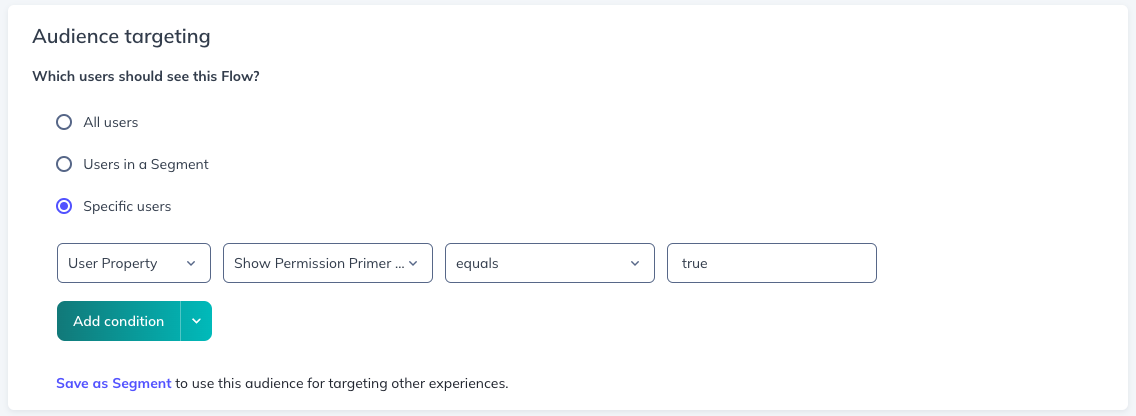
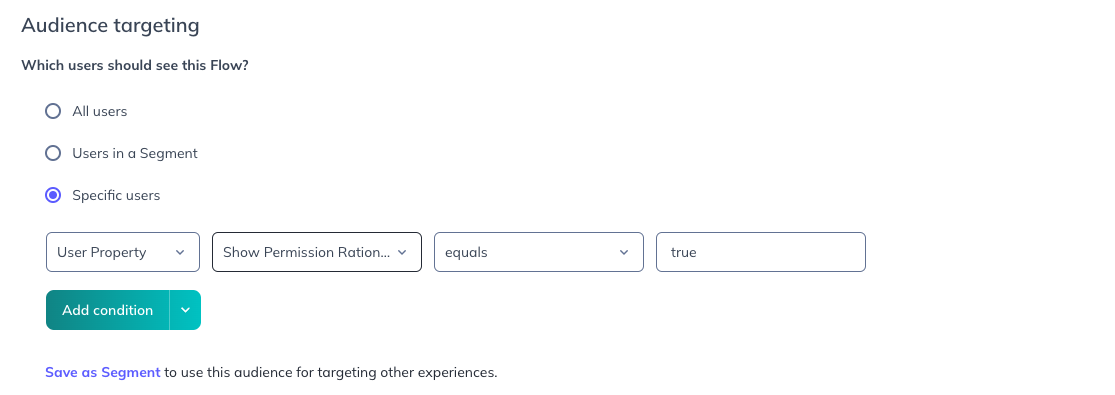
📝 Edits for permission primer doc

diff --git a/docs/permission_primer/PermissionPrimer.md b/docs/permission_primer/PermissionPrimer.md
@@ -1,123 +1,129 @@
-# Android permission primers
+# Android Permission Primers
 
-Sometimes its necessary to ask users for specific permissions, given that all apps are limited to access to user private data, at any given
-moment your application might need special access to camera, storage data, etc…
+Android applications must ask users for permission to use certain resources on the device, such as camera, storage or location. Sometimes, it is recommended that the application show an educational UI to the user that describes why a feature needs a particular permission. This guide will explain how to use Appcues to help with the permission rationale UI, also known as a permission primer. See the [Google guidelines](https://developer.android.com/training/permissions/requesting) for more information about requesting permissions.
 
-Following google [guidelines](https://developer.android.com/training/permissions/requesting), it is highly recommended to explain why you
-want that permission for before asking for any runtime permission specially on the second time around, and you can leverage Appcues to help
-you with that, providing a flow that explains why that permission is required for feature.
+The following example will show how an implementation with Appcues could work for an application that needs to request Camera permission. In this example, we'll follow the OS recommendations for when to show the permission primer, using the [`ActivityCompat.shouldShowRequestPermissionRationale`](https://developer.android.com/reference/androidx/core/app/ActivityCompat#shouldShowRequestPermissionRationale(android.app.Activity,java.lang.String)) function. 
 
-> 👉 There are many ways to set up a flow to display and request permission.
-> Consider this a starting point, though its a working solution it might require extra considerations to fit your needs.
+## In-app configuration
 
-## Android Setup
-
-1. lets add the permission to the AndroidManifest.xml
+1. Add the permission the application needs to the AndroidManifest.xml.
 
 ```xml
-
 <manifest>
-
     <uses-permission android:name="android.permission.CAMERA" />
-
     <application>
         .
         .
     </application>
-
 </manifest>
 ```
 
-2. On the screen we want to use camera permission, lets define a permission request constant
+2. Update your existing `Appcues.identify()` call to set a user property with the current value for whether a permission rational should show. Having an up-to-date property allows for targeting an Appcues flow to the latest property value. This examples uses `showPermissionRationaleCamera` to track this value.
+
+```kotlin
+val showRationale = ActivityCompat.shouldShowRequestPermissionRationale(activity, Manifest.permission.CAMERA)
+appcues.identify(
+    userId, 
+    mapOf(
+        // other user properties...
+        "showPermissionRationaleCamera" to showRationale
+    )
+)
+```
+
+> 👉 If your application desires a different use case around when to show the primer, that can be configured as desired by simply adjusting the logic around setting the targeting property on the Appcues user in this step, and on step 4 below.
+
+3. In the application code that needs the camera permission, define a permission request constant and then check for the permission status as shown.
 
 ```kotlin
 const val CAMERA_PERMISSION_REQUEST_CODE = 1234
-```
 
-3. Guard the method that uses the camera permission with this:
-
-```kotlin
 when {
-    // permission is granted
-    ContextCompat.checkSelfPermission(baseContext, Manifest.permission.CAMERA) == PackageManager.PERMISSION_GRANTED -> {
-        performAction() // use camera feature
+    ContextCompat.checkSelfPermission(
+        context, 
+        Manifest.permission.CAMERA
+    ) == PackageManager.PERMISSION_GRANTED -> {
+        // permission is granted, use camera feature
+        performAction()
     }
-    // permission is not granted yet && shouldShowRequestPermissionRationale returns false
-    ActivityCompat.shouldShowRequestPermissionRationale(activity, Manifest.permission.CAMERA).not() -> {
+
+    ActivityCompat.shouldShowRequestPermissionRationale(
+        activity, 
+        Manifest.permission.CAMERA
+    ).not() -> {
+        // permission is not granted yet && shouldShowRequestPermissionRationale returns false
         // request permission
         ActivityCompat.requestPermissions(activity, arrayOf(Manifest.permission.CAMERA), CAMERA_PERMISSION_REQUEST_CODE)
     }
+
+    // otherwise, permission is not granted, but we should show the rationale UI - we'll do nothing here,
+    // as the Appcues flow targeted to this use case will show our rationale and then trigger the native
+    // request prompt upon completion
 }
 ```
 
-> ⚠ In this Example we use `ActivityCompat` which may have different results on API below 23!
+> ⚠ `ContextCompat` and `ActivityCompat` functions are only supported on API 23+. If your application targets devices on lower API levels, ensure this code is inside a conditional check based on the API level running on the device.
 
-4. implement `OnRequestPermissionsResultCallback` and wait for the return of permission where the request code
-   is `CAMERA_PERMISSION_REQUEST_CODE` , update `showPermissionCameraRationale` accordingly.
+4. Implement the `OnRequestPermissionsResultCallback` interface, and check for the return of permission where the request code is `CAMERA_PERMISSION_REQUEST_CODE`. Update the Appcues user property `showPermissionRationaleCamera` accordingly. This ensures that the Appcues user profile is updated for targeting a permission primer flow, in the case of making a subsequent permission request after an initial ask was denied.
 
 ```kotlin
 override fun onRequestPermissionsResult(requestCode: Int, permissions: Array<out String>, grantResults: IntArray) {
     super.onRequestPermissionsResult(requestCode, permissions, grantResults)
 
     if (requestCode == CAMERA_PERMISSION_REQUEST_CODE) {
-        // permission was granted
         if (grantResults.isNotEmpty() && grantResults[0] == PackageManager.PERMISSION_GRANTED) {
-            performAction() // use camera feature
-            // update property to false
-            userProps["showPermissionCameraRationale"] = false
-        // permission denied
+            // permission was granted, use camera feature
+            performAction() 
+            // update the appcues user set the permission rational property to false - no need to ask any longer
+            appcues.identify(userId, mapOf("showPermissionRationaleCamera" to false))
         } else {
-            // update property to reflect whether to show permission rationale
-            userProps["showPermissionCameraRationale"] =
-                ActivityCompat.shouldShowRequestPermissionRationale(requireActivity(), Manifest.permission.CAMERA)
+            // permission was denied - check if we should show rationale on a subsequent ask            
+            val showRationale = ActivityCompat.shouldShowRequestPermissionRationale(activity, Manifest.permission.CAMERA)
+            // update the appcues user set the permission rational property based on the result above
+            appcues.identify(userId, mapOf("showPermissionRationaleCamera" to showRationale))
         }
     }
 }
 ```
 
-5. Final piece for the activity, register AnalyticsListener
+5. Register an AnalyticsListener on the Appcues instance. This listener will check for a specific event, `request-permission-camera`, which will be triggered by our permission primer flow. This event instructs our application code to proceed with the native permission prompt, after the primer flow has completed.
 
 ```kotlin
 appcues.analyticsListener = object : AnalyticsListener {
     override fun trackedAnalytic(type: AnalyticType, value: String?, properties: Map<String, Any>?, isInternal: Boolean) {
-
         if (type == AnalyticType.EVENT && value == "request-permission-camera") {
             // listen for "request-permission-camera" EVENT that will be sent by the permission primer flow
+            // and continue by requesting the permission in this application
             ActivityCompat.requestPermissions(activity, arrayOf(Manifest.permission.CAMERA), CAMERA_PERMISSION_REQUEST_CODE)
         }
     }
 }
-
-appcues.screen("screen_name")
 ```
 
-> 👉 Note that “request-permission-camera” is a random string we are defining here, that will later tie things together with our Flow.
+> 👉 Note that “request-permission-camera” is the name we have chosen to use for our custom event, and this will match the custom event we trigger in the Appcues permission primer flow we build below.
 
-> 💡 This setup is taking into account that you will be calling appcues.screen(”screen_name”) on the given screen. 
-> The implementation details is open to change depending on your app’s requirements.
+## Create the flow in Appcues Mobile Builder
 
-## Studio/Builder Setup
-
-1. On Appcues studio page, create a new flow explaining why that permission is important for your feature, here is an example:
+1. In the Appcues Mobile Builder, create a new flow explaining why this permission is important for your feature. In our example, we're requesting camera permissions for the application, and explain the rationale using the flow below.
 
 <p align="center">
   <img src="flow_example.png" width="400">
 </p>
 
-2. Change the “Continue/OK” provided in your flow to include a track event like this one:
+2. The `Continue` button on this flow will dismiss the flow. It should be updated to also track the `request-permission-camera` event we declared above in the Appcues `analyticsListener`. This is what will instruct the application code to make the native permission request.
 
 <p align="center">
   <img src="flow_button_actions.png" width="400">
 </p>
 
-3. When you are done editing your flow, go back to the settings page and add how you are targeting this audience. Lets set to target users property “showPermissionCameraRationale” is equal to "true".
+## Target the flow in Appcues Studio
+
+1. Set the Audience targeting for the flow to “Specific users”. Select “User property”, “Show Permission Rationale Camera”, “equals”, true. This ensures only users who have previously been determined as eligible for seeing the permission rationale will see the flow. It will not show for users who have denied multiple times already and cannot be asked again. It will also not show for first time requests, in this use case, where the Android application does not consider the user eligible to see the rationale UI. The logic around when to show the rationale can be adjusted to meet your application's use cases.
 
 <p align="center">
   <img src="flow_audience_target.png" width="800">
 </p>
 
-4. And now, make sure to trigger this flow at screen(”screen_name”)
+2. Configure the Trigger and Screen targeting rules for your use case.
 
-<p align="center">
-  <img src="flow_target.png" width="800">
-</p>
+3. Publish!
